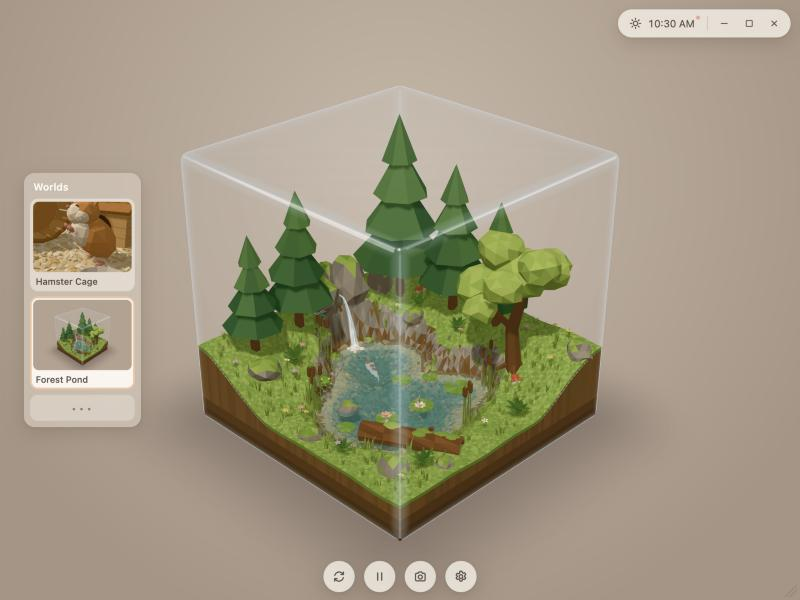
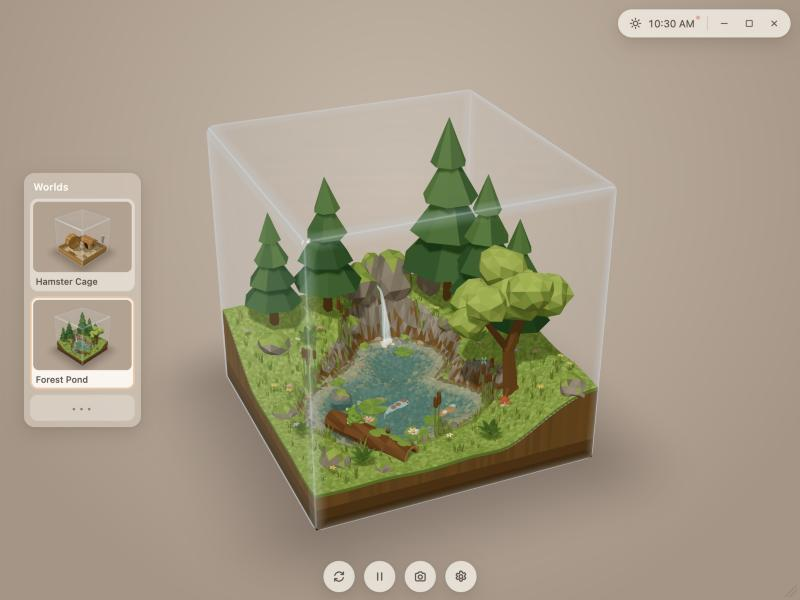
Follow the rename in the README, and turn the cube in its pictures
Clone instructions point at the renamed wonderarium repository and
folder. The first two pictures are retaken with the cube turned a little,
so its front edge no longer runs down the middle of the frame.

diff --git a/README.md b/README.md
@@ -62,11 +62,11 @@ You need macOS, Git and Node 24. If you have them already, skip to step 3.
 3. **Get the code and install.**
 
    ```bash
-   git clone https://github.com/CharlesXu-Jingyue/desktop_bits_and_bobs.git
+   git clone https://github.com/CharlesXu-Jingyue/wonderarium.git
    ```
 
    ```bash
-   cd desktop_bits_and_bobs
+   cd wonderarium
    ```
 
    ```bash
@@ -79,7 +79,7 @@ You need macOS, Git and Node 24. If you have them already, skip to step 3.
 
    `nvm install` fetches and switches to Node 24 (skip it if you used Homebrew). `npm ci` installs exactly the versions in the lockfile, into the project's own `node_modules`.
 
-   The repository is private for now, so cloning needs a GitHub account that has been given access. If you have SSH keys set up with GitHub, `git clone git@github.com:CharlesXu-Jingyue/desktop_bits_and_bobs.git` works as well.
+   The repository is private for now, so cloning needs a GitHub account that has been given access. If you have SSH keys set up with GitHub, `git clone git@github.com:CharlesXu-Jingyue/wonderarium.git` works as well.
 
 4. **Open the box.**
 
